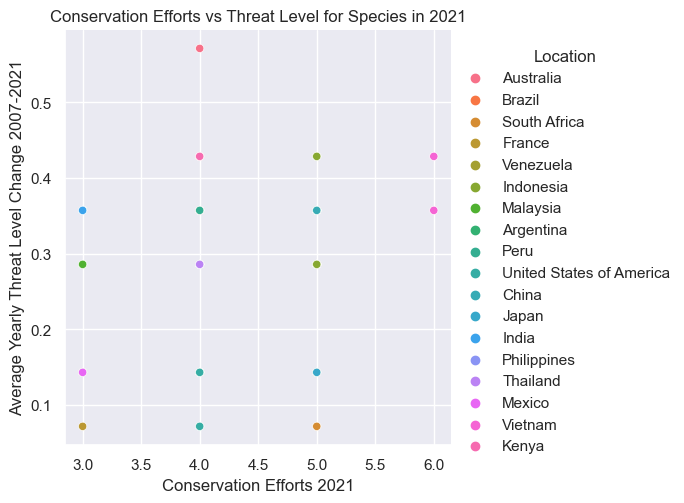
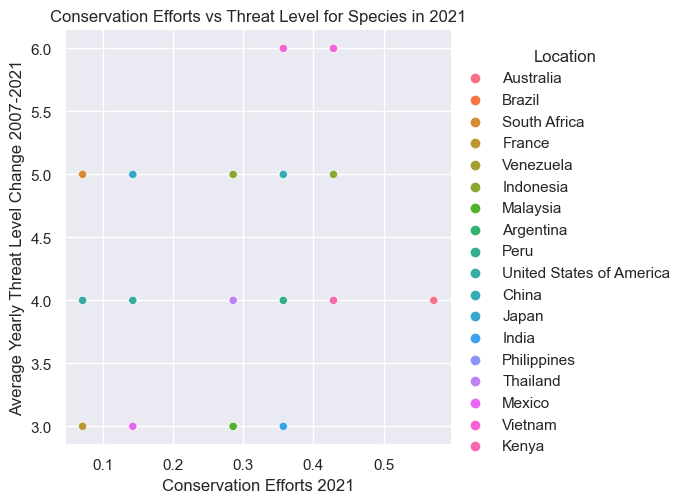
updates

diff --git a/Code/Research question 2.py b/Code/Research question 2.py
@@ -58,11 +58,12 @@ def scatter_plot(threat_data, conservation_data):
     # scatter_plot_df["Average Yearly Threat Level Change 2007-2021"] = threat_data["Average Yearly TL Change Over Time"]
     # scatter_plot_df["Conservation Efforts 2021"] = conservation_data["Num Index"]
     # scatter_plot_df = scatter_plot_df.dropna()
-    sns.relplot(data=scatter_plot_df, x="Num Index", y="Average Yearly TL Change Over Time", hue="Location")
+    sns.relplot(data=scatter_plot_df, x="Average Yearly TL Change Over Time", y="Num Index", hue="Location")
     plt.xlabel("Conservation Efforts 2021")
     plt.ylabel("Average Yearly Threat Level Change 2007-2021")
     plt.title("Conservation Efforts vs Threat Level for Species in 2021")
     plt.savefig("Conservation vs threat level change scatterplot.png", bbox_inches="tight")
+
 
 if __name__ == "__main__":
     conservation_data = process_conservation_data("Code/Conservation Data.txt")

diff --git a/Code/research_question_1.py b/Code/research_question_1.py
@@ -2,7 +2,7 @@ import pandas as pd
 import matplotlib.pyplot as plt
 import seaborn as sns
 sns.set()
-from utils import extinction_level_numerical, avg_tl_change_multiple_years, csv_processing, species_threat_level_data_processing, process_big_data
+from utils import csv_processing, species_threat_level_data_processing, process_big_data
 
 
 """
